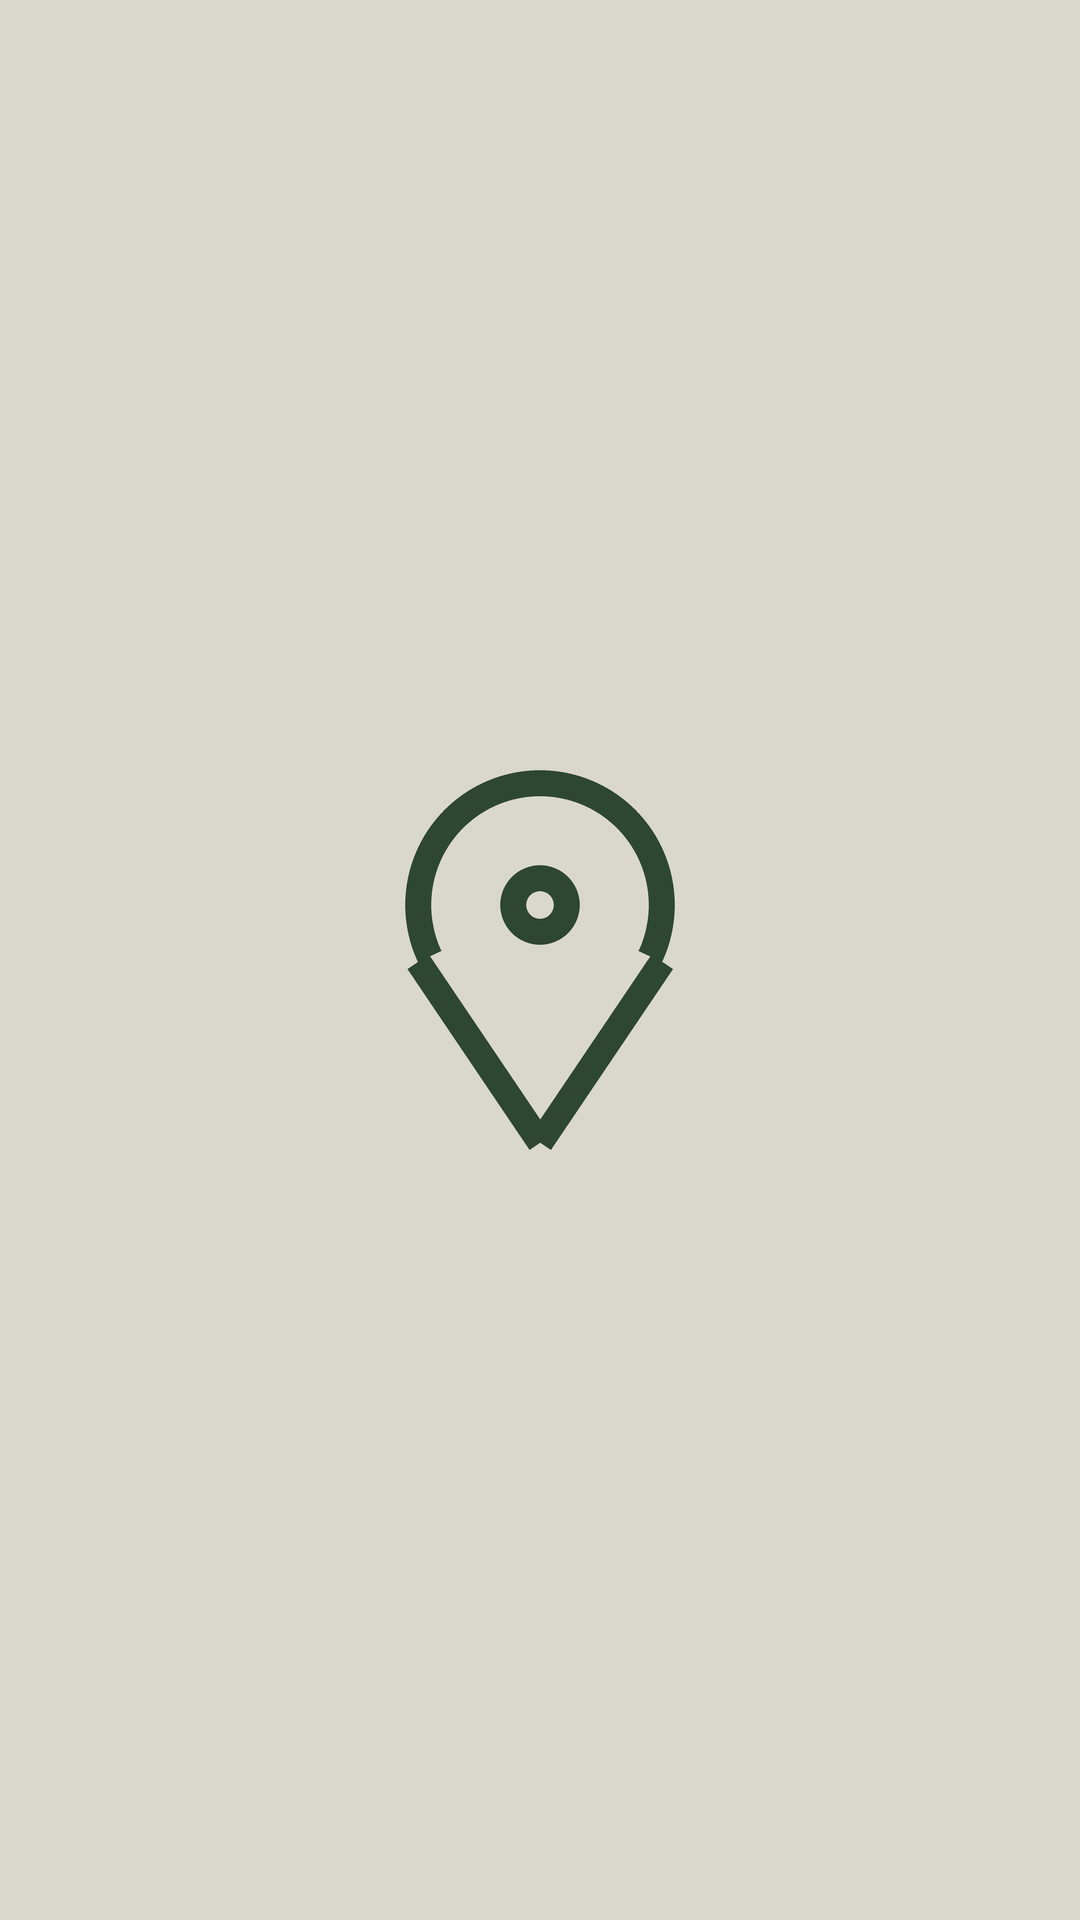
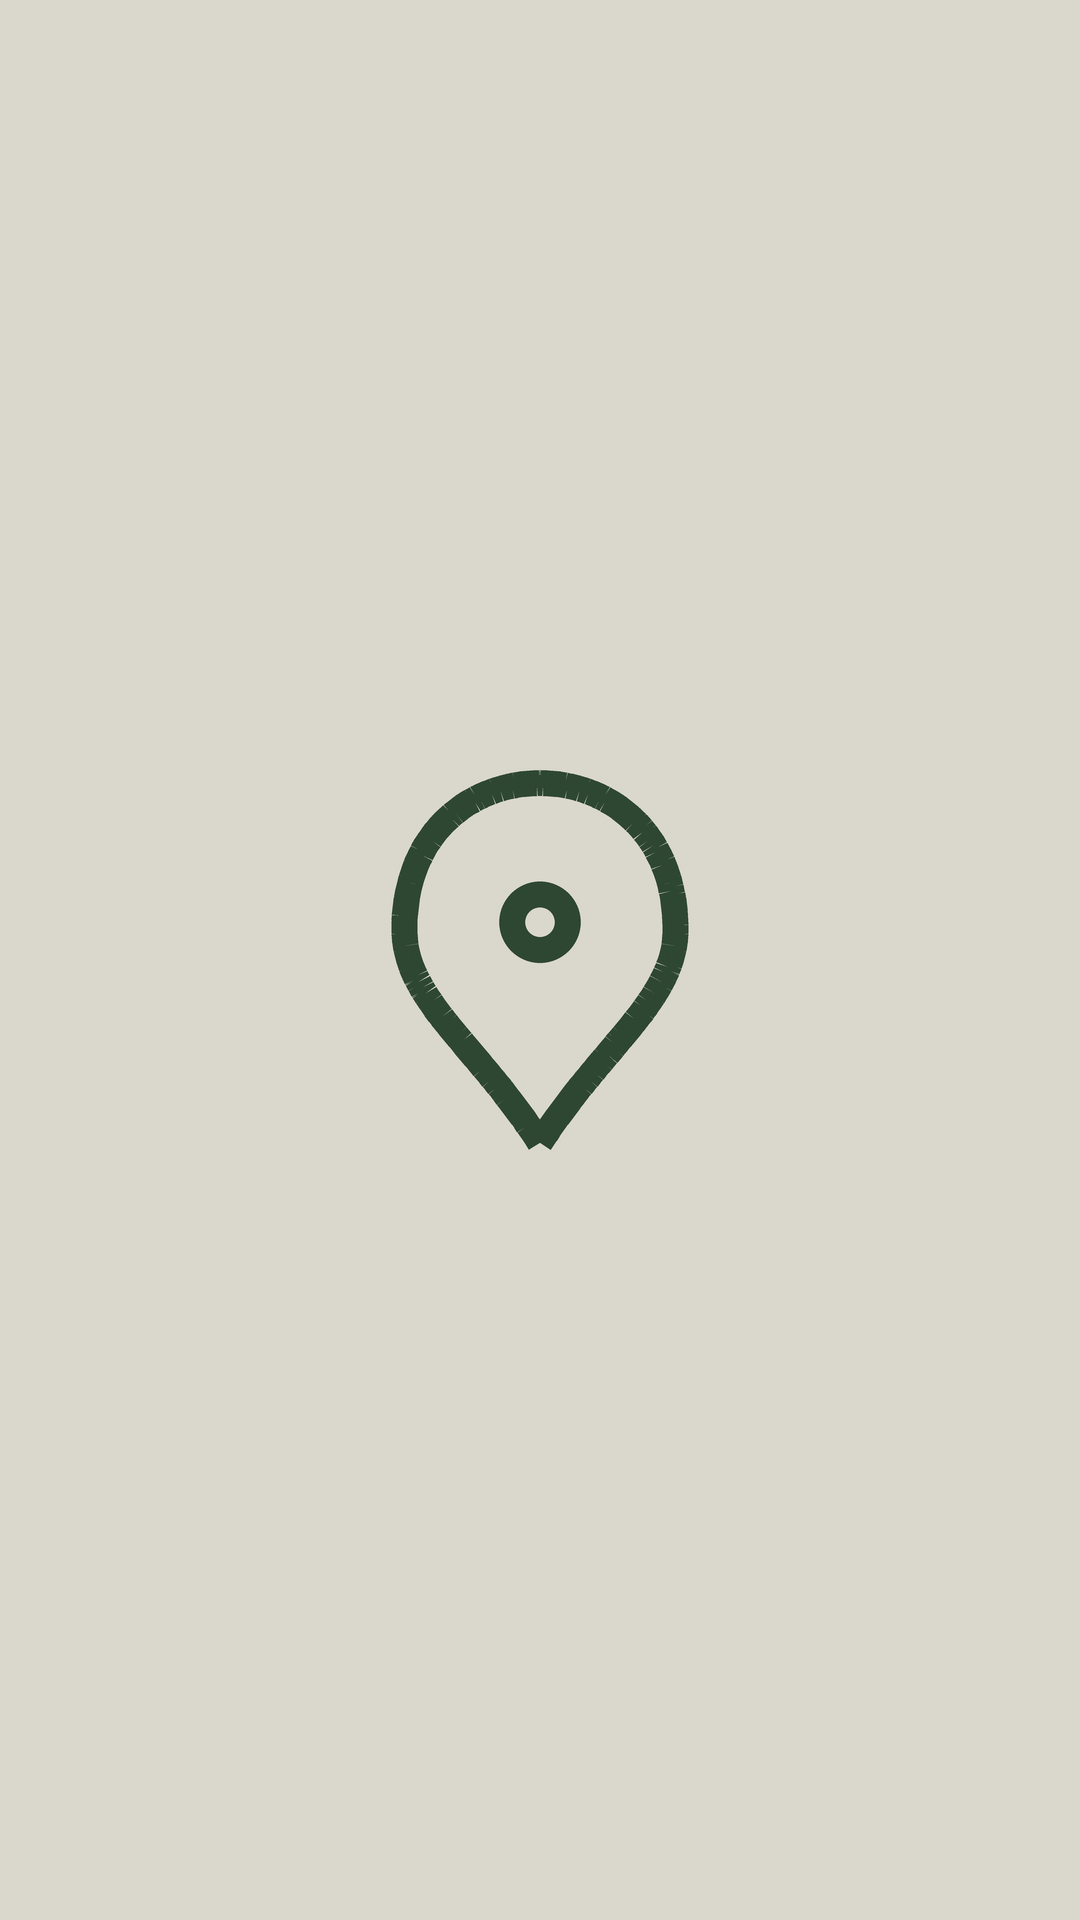
social: redraw the pin and the flame as single closed paths
Both were reported as looking broken and both were.

The pin was an arc plus two straight lines meeting at the point. The geometry was
correct — the lines began exactly where the arc ended — and it still looked wrong,
because a 26 px stroke on an arc and a 26 px stroke on a line meet at an angle and
leave a notch on the outside of the join. Pillow has no line-join to set for that.
One continuous curve has no joins to get wrong.

The flame is on its third drawing. Straight segments made a diamond inside a
diamond; a symmetrical teardrop made a water drop; the version that added the lean
and the turn-back that separate a flame from a drop also added a self-intersection
at the shoulder, which at this stroke weight showed as a snag. It is now one
leaning teardrop with nothing inside it — at the 32 px an avatar row is read at, an
inner mark inside an outline is two strokes half a pixel apart, which is mud
rather than detail.

Changed region(s): [[0.5194, 0.4062, 0.6417, 0.5625], [0.3361, 0.4062, 0.4583, 0.5625], [0.4583, 0.4375, 0.55, 0.5]]

diff --git a/tools/social/build_highlight_covers.py b/tools/social/build_highlight_covers.py
@@ -109,14 +109,21 @@ def icon_book(d, x, y, s, c, w):
 
 
 def icon_pin(d, x, y, s, c, w):
-    """A map pin, for five countries and seven thousand pages of them."""
-    r = s * 0.34
-    cx, cy = x + s / 2, y + s * 0.38
-    d.arc([cx - r, cy - r, cx + r, cy + r], 155, 25, fill=c, width=w)
-    _line(d, [(cx - r * 0.906, cy + r * 0.423), (cx, y + s * 0.98)], c, w)
-    _line(d, [(cx + r * 0.906, cy + r * 0.423), (cx, y + s * 0.98)], c, w)
-    rr = s * 0.10
-    d.ellipse([cx - rr, cy - rr, cx + rr, cy + rr], outline=c, width=w)
+    """A map pin, drawn as one closed path.
+
+    It was an arc plus two straight lines meeting at the point. The maths was
+    right — the lines started exactly where the arc ended — and it still looked
+    broken, because a 26 px stroke on an arc and a 26 px stroke on a line meet at
+    an angle and leave a notch on the outside of the join. Pillow has no line-join
+    for that. One continuous curve has no joins to get wrong.
+    """
+    _curve(d, x, y, s, [((0.50, 0.97), (0.34, 0.72), (0.15, 0.60), (0.15, 0.42)),
+                        ((0.15, 0.42), (0.15, 0.16), (0.33, 0.04), (0.50, 0.04)),
+                        ((0.50, 0.04), (0.67, 0.04), (0.85, 0.16), (0.85, 0.42)),
+                        ((0.85, 0.42), (0.85, 0.60), (0.66, 0.72), (0.50, 0.97))], c, w)
+    r = s * 0.105
+    cx, cy = x + s * 0.50, y + s * 0.40
+    d.ellipse([cx - r, cy - r, cx + r, cy + r], outline=c, width=w)
 
 
 def icon_leaf(d, x, y, s, c, w):
@@ -132,23 +139,22 @@ def icon_leaf(d, x, y, s, c, w):
 
 
 def icon_flame(d, x, y, s, c, w):
-    """A flame. The one cover that is not about selling.
+    """A flame: one leaning teardrop, and nothing inside it.
 
-    Straight segments made a diamond inside a diamond. A flame is a teardrop —
-    narrow and pointed at the top, heavy and round at the bottom — and the whole
-    of that reading is in how fast it widens."""
-    # Symmetric about its axis, this is a water drop and nothing else. What makes
-    # a flame is the shoulder: one flank leaves the tip, turns back on itself, and
-    # only then swings wide. Without that inflection the shape stays a droplet
-    # however narrow the tip is drawn.
-    _curve(d, x, y, s, [((0.46, 0.02), (0.30, 0.24), (0.14, 0.44), (0.13, 0.66)),
-                        ((0.13, 0.66), (0.12, 0.88), (0.30, 0.98), (0.50, 0.98)),
-                        ((0.50, 0.98), (0.72, 0.98), (0.88, 0.86), (0.88, 0.64)),
-                        ((0.88, 0.64), (0.88, 0.44), (0.70, 0.40), (0.68, 0.22)),
-                        ((0.68, 0.22), (0.66, 0.12), (0.56, 0.06), (0.46, 0.02))], c, w)
-    _curve(d, x, y, s, [((0.46, 0.50), (0.60, 0.62), (0.66, 0.74), (0.60, 0.85)),
-                        ((0.60, 0.85), (0.54, 0.93), (0.40, 0.92), (0.35, 0.83)),
-                        ((0.35, 0.83), (0.30, 0.72), (0.38, 0.62), (0.46, 0.50))], c, w)
+    Two earlier versions. Straight segments made a diamond inside a diamond. Then
+    a symmetrical teardrop, which is a water drop — what separates a flame from a
+    drop is the lean and the way one flank turns back before it swings wide. The
+    version that added that also added a self-intersection at the shoulder, which
+    at this stroke weight showed as a snag.
+
+    The inner flame is gone with it. At the 32 px an avatar row is read at, an
+    inner mark inside an outline is two strokes half a pixel apart — mud, not
+    detail. The lean carries the reading on its own.
+    """
+    _curve(d, x, y, s, [((0.44, 0.04), (0.24, 0.30), (0.13, 0.50), (0.14, 0.70)),
+                        ((0.14, 0.70), (0.15, 0.89), (0.31, 0.97), (0.50, 0.97)),
+                        ((0.50, 0.97), (0.69, 0.97), (0.86, 0.88), (0.86, 0.66)),
+                        ((0.86, 0.66), (0.86, 0.44), (0.60, 0.34), (0.44, 0.04))], c, w)
 
 
 def icon_frame(d, x, y, s, c, w):
